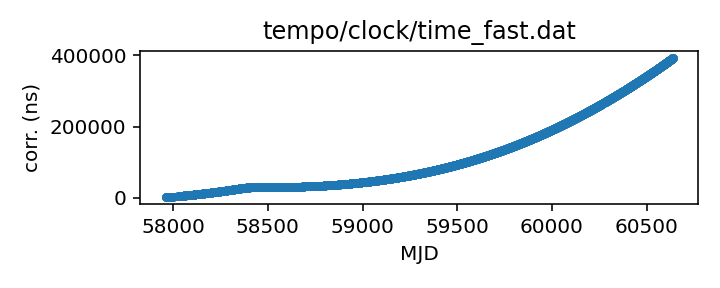
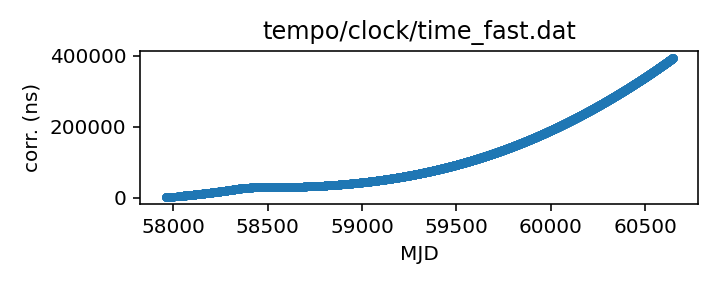
Routine gh-pages update from Github action Wed Dec  4 20:42:10 UTC 2024

Changed region(s): [[0.5806, 0.75, 0.825, 0.8125], [0.8556, 0.75, 0.9472, 0.8125]]

diff --git a/status.md b/status.md
@@ -13,18 +13,18 @@ name of each clock file links to a page with more details.
 
 | Name | File | Corrections start | Corrections end | Last check date | Last check result 
 |:--- |:--- | --- | --- | --- |:--- 
-| [GPS to UTC](T2runtime/clock/gps2utc.clk.html) | `T2runtime/clock/gps2utc.clk` | 1993-01-01 MJD 48988.0 | 2024-10-31 MJD 60614.0 | 2024-12-03 | Unchanged 
-| [GPS to UTC (Combined Clock)](T2runtime/clock/gps2utc_cc.clk.html) | `T2runtime/clock/gps2utc_cc.clk` | 1993-01-01 MJD 48988.0 | 2024-10-31 MJD 60614.0 | 2024-12-03 | Unchanged 
-| [GPS to UTC (Corrected)](T2runtime/clock/gps2utc_c0p.clk.html) | `T2runtime/clock/gps2utc_c0p.clk` | 2010-12-29 MJD 55559.0 | 2024-10-31 MJD 60614.0 | 2024-12-03 | Unchanged 
-| [GBT](tempo/clock/time_gbt.dat.html) | `tempo/clock/time_gbt.dat` | 2000-12-31 MJD 51909.5 | 2024-05-18 MJD 60448.5 | 2024-12-03 | **Validation failed** 
+| [GPS to UTC](T2runtime/clock/gps2utc.clk.html) | `T2runtime/clock/gps2utc.clk` | 1993-01-01 MJD 48988.0 | 2024-10-31 MJD 60614.0 | 2024-12-04 | Unchanged 
+| [GPS to UTC (Combined Clock)](T2runtime/clock/gps2utc_cc.clk.html) | `T2runtime/clock/gps2utc_cc.clk` | 1993-01-01 MJD 48988.0 | 2024-10-31 MJD 60614.0 | 2024-12-04 | Unchanged 
+| [GPS to UTC (Corrected)](T2runtime/clock/gps2utc_c0p.clk.html) | `T2runtime/clock/gps2utc_c0p.clk` | 2010-12-29 MJD 55559.0 | 2024-10-31 MJD 60614.0 | 2024-12-04 | Unchanged 
+| [GBT](tempo/clock/time_gbt.dat.html) | `tempo/clock/time_gbt.dat` | 2000-12-31 MJD 51909.5 | 2024-05-18 MJD 60448.5 | 2024-12-04 | **Validation failed** 
 | [GBT (TEMPO2 converted from TEMPO)](T2runtime/clock/gbt2gps.clk.html) | `T2runtime/clock/gbt2gps.clk` | 2000-12-31 MJD 51909.5 | 2024-05-18 MJD 60448.5 | 2024-05-19 | Updated 
-| [Jodrell Bank](T2runtime/clock/jb2gps.clk.html) | `T2runtime/clock/jb2gps.clk` | 2006-10-13 MJD 54021.4 | 2024-11-07 MJD 60621.0 | 2024-11-27 | Updated 
-| [Jodrell Bank Roach](T2runtime/clock/jbroach2jb.clk.html) | `T2runtime/clock/jbroach2jb.clk` | 2006-10-13 MJD 54021.4 | 2018-03-20 MJD 58197.6 | 2024-11-27 | Unchanged 
-| [Jodrell Bank DFB](T2runtime/clock/jbdfb2jb.clk.html) | `T2runtime/clock/jbdfb2jb.clk` | 2006-10-13 MJD 54021.4 | 2017-05-11 MJD 57884.0 | 2024-11-27 | Unchanged 
-| [Meerkat (observatory)](T2runtime/clock/mk2utc_observatory.clk.html) | `T2runtime/clock/mk2utc_observatory.clk` | 2019-01-01 MJD 58484.0 | 2024-04-24 MJD 60425.0 | 2024-11-27 | **Failed to download** 
-| [Leap seconds](tempo/clock/leap.sec.html) | `tempo/clock/leap.sec` | 1972-07-01 MJD 41499.0 | 2017-01-01 MJD 57754.0 | 2024-12-03 | Unchanged 
-| [UT1 table](tempo/clock/ut1.dat.html) | `tempo/clock/ut1.dat` | 1973-01-02 MJD 41684.0 | 2025-12-06 MJD 61015.0 | 2024-12-03 | Unchanged 
-| [UT1 table](T2runtime/clock/ut1.dat.html) | `T2runtime/clock/ut1.dat` | 1973-01-02 MJD 41684.0 | 2025-12-06 MJD 61015.0 | 2024-12-03 | Unchanged 
+| [Jodrell Bank](T2runtime/clock/jb2gps.clk.html) | `T2runtime/clock/jb2gps.clk` | 2006-10-13 MJD 54021.4 | 2024-11-07 MJD 60621.0 | 2024-12-04 | Unchanged 
+| [Jodrell Bank Roach](T2runtime/clock/jbroach2jb.clk.html) | `T2runtime/clock/jbroach2jb.clk` | 2006-10-13 MJD 54021.4 | 2018-03-20 MJD 58197.6 | 2024-12-04 | Unchanged 
+| [Jodrell Bank DFB](T2runtime/clock/jbdfb2jb.clk.html) | `T2runtime/clock/jbdfb2jb.clk` | 2006-10-13 MJD 54021.4 | 2017-05-11 MJD 57884.0 | 2024-12-04 | Unchanged 
+| [Meerkat (observatory)](T2runtime/clock/mk2utc_observatory.clk.html) | `T2runtime/clock/mk2utc_observatory.clk` | 2019-01-01 MJD 58484.0 | 2024-04-24 MJD 60425.0 | 2024-12-04 | **Failed to download** 
+| [Leap seconds](tempo/clock/leap.sec.html) | `tempo/clock/leap.sec` | 1972-07-01 MJD 41499.0 | 2017-01-01 MJD 57754.0 | 2024-12-04 | Unchanged 
+| [UT1 table](tempo/clock/ut1.dat.html) | `tempo/clock/ut1.dat` | 1973-01-02 MJD 41684.0 | 2025-12-06 MJD 61015.0 | 2024-12-04 | Unchanged 
+| [UT1 table](T2runtime/clock/ut1.dat.html) | `T2runtime/clock/ut1.dat` | 1973-01-02 MJD 41684.0 | 2025-12-06 MJD 61015.0 | 2024-12-04 | Unchanged 
 
 
 
@@ -67,26 +67,26 @@ name of each clock file links to a page with more details.
 
 | Name | File | Corrections start | Corrections end | Last check date | Last check result 
 |:--- |:--- | --- | --- | --- |:--- 
-| [GPS to UTC (TEMPO2)](T2runtime/clock/gps2utc_tempo2.clk.html) | `T2runtime/clock/gps2utc_tempo2.clk` | 1996-03-27 MJD 50169.0 | 2022-10-27 MJD 59879.0 | 2024-11-27 | **Failed to download** 
-| [GBT (TEMPO2)](T2runtime/clock/gbt2gps_tempo2.clk.html) | `T2runtime/clock/gbt2gps_tempo2.clk` | 2000-12-31 MJD 51909.5 | 2020-02-25 MJD 58904.5 | 2024-11-27 | Unchanged 
-| [Jodrell Bank (TEMPO)](tempo/clock/time_jb.dat.html) | `tempo/clock/time_jb.dat` | 2006-10-13 MJD 54021.4 | 2019-05-13 MJD 58616.2 | 2024-11-27 | Unchanged 
-| [VLA](tempo/clock/time_vla.dat.html) | `tempo/clock/time_vla.dat` | 1990-10-27 MJD 48191.2 | 2021-03-07 MJD 59280.5 | 2024-11-27 | Unchanged 
-| [VLA (TEMPO2)](T2runtime/clock/vla2gps.clk.html) | `T2runtime/clock/vla2gps.clk` | 2015-02-01 MJD 57054.6 | 2021-03-07 MJD 59280.5 | 2024-11-27 | Unchanged 
-| [VLA to NIST](T2runtime/clock/vla2nist.clk.html) | `T2runtime/clock/vla2nist.clk` | 1990-10-27 MJD 48191.2 | 1993-11-13 MJD 49304.0 | 2024-11-27 | Unchanged 
-| [FAST](tempo/clock/time_fast.dat.html) | `tempo/clock/time_fast.dat` | 2017-07-27 MJD 57961.0 | 2024-11-25 MJD 60640.0 | 2024-11-27 | Updated 
-| [WSRT](T2runtime/clock/wsrt2gps.clk.html) | `T2runtime/clock/wsrt2gps.clk` | 1999-01-01 MJD 51179.5 | 2015-06-29 MJD 57202.1 | 2024-11-27 | Unchanged 
-| [WSRT (TEMPO)](tempo/clock/time_wsrt.dat.html) | `tempo/clock/time_wsrt.dat` | 1987-07-24 MJD 47000.0 | 2007-12-24 MJD 54458.0 | 2024-11-27 | **Validation failed** 
-| [Parkes](T2runtime/clock/pks2gps.clk.html) | `T2runtime/clock/pks2gps.clk` | 1858-11-17 MJD 0.0 | 2024-10-31 MJD 60614.1 | 2024-11-27 | Updated 
-| [Parkes (TEMPO)](tempo/clock/time_pks.dat.html) | `tempo/clock/time_pks.dat` | 1979-05-07 MJD 44000.0 | 2011-07-03 MJD 55745.8 | 2024-11-27 | **Validation failed** 
-| [SRT](T2runtime/clock/srt2gps.clk.html) | `T2runtime/clock/srt2gps.clk` | 2013-03-20 MJD 56371.0 | 2019-12-11 MJD 58828.0 | 2024-11-27 | Unchanged 
-| [Effelsberg](T2runtime/clock/eff2gps.clk.html) | `T2runtime/clock/eff2gps.clk` | 1993-11-29 MJD 49320.0 | 2015-06-22 MJD 57195.5 | 2024-11-27 | Unchanged 
-| [Effelsberg Asterix/PSRix](T2runtime/clock/effix2gps.clk.html) | `T2runtime/clock/effix2gps.clk` | 2011-01-01 MJD 55562.5 | 2021-03-21 MJD 59294.5 | 2024-11-27 | Unchanged 
-| [LEAP](T2runtime/clock/leap2effix.clk.html) | `T2runtime/clock/leap2effix.clk` | 2012-10-29 MJD 56230.0 | 2014-03-04 MJD 56720.0 | 2024-11-27 | Unchanged 
-| [NUPPI](tempo/clock/time_nuppi.dat.html) | `tempo/clock/time_nuppi.dat` | 2005-03-07 MJD 53436.0 | 2015-11-08 MJD 57334.6 | 2024-11-27 | Unchanged 
-| [Meerkat (TEMPO2)](T2runtime/clock/mk2utc.clk.html) | `T2runtime/clock/mk2utc.clk` | 2019-01-01 MJD 58484.0 | 2024-09-23 MJD 60576.9 | 2024-11-27 | Updated 
-| [MOST](T2runtime/clock/mo2gps.clk.html) | `T2runtime/clock/mo2gps.clk` | 2003-12-27 MJD 53000.0 | 2018-09-06 MJD 58367.0 | 2024-11-27 | Unchanged 
-| [Nancay to obspm](T2runtime/clock/ncyobs2obspm.clk.html) | `T2runtime/clock/ncyobs2obspm.clk` | 1988-05-18 MJD 47299.6 | 2023-10-27 MJD 60244.0 | 2024-11-27 | Unchanged 
-| [obspm](T2runtime/clock/obspm2gps.clk.html) | `T2runtime/clock/obspm2gps.clk` | 2003-12-01 MJD 52974.0 | 2023-10-27 MJD 60244.0 | 2024-11-27 | Unchanged 
+| [GPS to UTC (TEMPO2)](T2runtime/clock/gps2utc_tempo2.clk.html) | `T2runtime/clock/gps2utc_tempo2.clk` | 1996-03-27 MJD 50169.0 | 2022-10-27 MJD 59879.0 | 2024-12-04 | **Failed to download** 
+| [GBT (TEMPO2)](T2runtime/clock/gbt2gps_tempo2.clk.html) | `T2runtime/clock/gbt2gps_tempo2.clk` | 2000-12-31 MJD 51909.5 | 2020-02-25 MJD 58904.5 | 2024-12-04 | Unchanged 
+| [Jodrell Bank (TEMPO)](tempo/clock/time_jb.dat.html) | `tempo/clock/time_jb.dat` | 2006-10-13 MJD 54021.4 | 2019-05-13 MJD 58616.2 | 2024-12-04 | Unchanged 
+| [VLA](tempo/clock/time_vla.dat.html) | `tempo/clock/time_vla.dat` | 1990-10-27 MJD 48191.2 | 2021-03-07 MJD 59280.5 | 2024-12-04 | Unchanged 
+| [VLA (TEMPO2)](T2runtime/clock/vla2gps.clk.html) | `T2runtime/clock/vla2gps.clk` | 2015-02-01 MJD 57054.6 | 2021-03-07 MJD 59280.5 | 2024-12-04 | Unchanged 
+| [VLA to NIST](T2runtime/clock/vla2nist.clk.html) | `T2runtime/clock/vla2nist.clk` | 1990-10-27 MJD 48191.2 | 1993-11-13 MJD 49304.0 | 2024-12-04 | Unchanged 
+| [FAST](tempo/clock/time_fast.dat.html) | `tempo/clock/time_fast.dat` | 2017-07-27 MJD 57961.0 | 2024-12-02 MJD 60647.0 | 2024-12-04 | Updated 
+| [WSRT](T2runtime/clock/wsrt2gps.clk.html) | `T2runtime/clock/wsrt2gps.clk` | 1999-01-01 MJD 51179.5 | 2015-06-29 MJD 57202.1 | 2024-12-04 | Unchanged 
+| [WSRT (TEMPO)](tempo/clock/time_wsrt.dat.html) | `tempo/clock/time_wsrt.dat` | 1987-07-24 MJD 47000.0 | 2007-12-24 MJD 54458.0 | 2024-12-04 | **Validation failed** 
+| [Parkes](T2runtime/clock/pks2gps.clk.html) | `T2runtime/clock/pks2gps.clk` | 1858-11-17 MJD 0.0 | 2024-10-31 MJD 60614.1 | 2024-12-04 | Unchanged 
+| [Parkes (TEMPO)](tempo/clock/time_pks.dat.html) | `tempo/clock/time_pks.dat` | 1979-05-07 MJD 44000.0 | 2011-07-03 MJD 55745.8 | 2024-12-04 | **Validation failed** 
+| [SRT](T2runtime/clock/srt2gps.clk.html) | `T2runtime/clock/srt2gps.clk` | 2013-03-20 MJD 56371.0 | 2019-12-11 MJD 58828.0 | 2024-12-04 | Unchanged 
+| [Effelsberg](T2runtime/clock/eff2gps.clk.html) | `T2runtime/clock/eff2gps.clk` | 1993-11-29 MJD 49320.0 | 2015-06-22 MJD 57195.5 | 2024-12-04 | Unchanged 
+| [Effelsberg Asterix/PSRix](T2runtime/clock/effix2gps.clk.html) | `T2runtime/clock/effix2gps.clk` | 2011-01-01 MJD 55562.5 | 2021-03-21 MJD 59294.5 | 2024-12-04 | Unchanged 
+| [LEAP](T2runtime/clock/leap2effix.clk.html) | `T2runtime/clock/leap2effix.clk` | 2012-10-29 MJD 56230.0 | 2014-03-04 MJD 56720.0 | 2024-12-04 | Unchanged 
+| [NUPPI](tempo/clock/time_nuppi.dat.html) | `tempo/clock/time_nuppi.dat` | 2005-03-07 MJD 53436.0 | 2015-11-08 MJD 57334.6 | 2024-12-04 | Unchanged 
+| [Meerkat (TEMPO2)](T2runtime/clock/mk2utc.clk.html) | `T2runtime/clock/mk2utc.clk` | 2019-01-01 MJD 58484.0 | 2024-09-23 MJD 60576.9 | 2024-12-04 | Unchanged 
+| [MOST](T2runtime/clock/mo2gps.clk.html) | `T2runtime/clock/mo2gps.clk` | 2003-12-27 MJD 53000.0 | 2018-09-06 MJD 58367.0 | 2024-12-04 | Unchanged 
+| [Nancay to obspm](T2runtime/clock/ncyobs2obspm.clk.html) | `T2runtime/clock/ncyobs2obspm.clk` | 1988-05-18 MJD 47299.6 | 2023-10-27 MJD 60244.0 | 2024-12-04 | Unchanged 
+| [obspm](T2runtime/clock/obspm2gps.clk.html) | `T2runtime/clock/obspm2gps.clk` | 2003-12-01 MJD 52974.0 | 2023-10-27 MJD 60244.0 | 2024-12-04 | Unchanged 
 
 
 ### Further information:

diff --git a/tempo/clock/time_pks.dat.md b/tempo/clock/time_pks.dat.md
@@ -20,12 +20,11 @@ telescopes in the same file, distinguished only by observatory code.
 | Clock file start | 1979-05-07 MJD 44000.0 |
 | Clock file end | 2011-07-03 MJD 55745.8 |
 | Update interval (days) | 7 |
-| Last update attempt | 2024-11-27 |
+| Last update attempt | 2024-12-04 |
 | Last update result | Validation failed |
 
 Log entries from the last few update attempts:
 ```
-2024-08-16 20:31:04.370 - Validation failed: Unable to read new version of tempo/clock/time_pks.dat: Clock file /tmp/astropy-download-1819-bg24jb3b appears to be out of order: 49959.0 > 49958.0
 2024-08-23 20:30:59.058 - Validation failed: Unable to read new version of tempo/clock/time_pks.dat: Clock file /tmp/astropy-download-1777-zxlnpoxz appears to be out of order: 49959.0 > 49958.0
 2024-08-30 20:32:33.550 - Validation failed: Unable to read new version of tempo/clock/time_pks.dat: Clock file /tmp/astropy-download-1806-7nmpd07j appears to be out of order: 49959.0 > 49958.0
 2024-09-06 20:31:32.232 - Validation failed: Unable to read new version of tempo/clock/time_pks.dat: Clock file /tmp/astropy-download-1810-y5xp7me4 appears to be out of order: 49959.0 > 49958.0
@@ -35,6 +34,7 @@ Log entries from the last few update attempts:
 2024-10-04 20:33:16.722 - Validation failed: Unable to read new version of tempo/clock/time_pks.dat: Clock file /tmp/astropy-download-1844-zxupk919 appears to be out of order: 49959.0 > 49958.0
 2024-10-11 20:39:11.255 - Validation failed: Unable to read new version of tempo/clock/time_pks.dat: Clock file /tmp/astropy-download-2062-ylxvq7_t appears to be out of order: 49959.0 > 49958.0
 2024-11-27 20:39:55.006 - Validation failed: Unable to read new version of tempo/clock/time_pks.dat: Clock file /tmp/astropy-download-2172-0awx7c85 appears to be out of order: 49959.0 > 49958.0
+2024-12-04 20:40:28.450 - Validation failed: Unable to read new version of tempo/clock/time_pks.dat: Clock file /tmp/astropy-download-2139-qynhkydv appears to be out of order: 49959.0 > 49958.0
 ```
 [Full log](https://raw.githubusercontent.com/ipta/pulsar-clock-corrections/main/log/tempo/clock/time_pks.dat.log)
 

diff --git a/tempo/clock/time_wsrt.dat.md b/tempo/clock/time_wsrt.dat.md
@@ -20,12 +20,11 @@ should be the same information.
 | Clock file start | 1987-07-24 MJD 47000.0 |
 | Clock file end | 2007-12-24 MJD 54458.0 |
 | Update interval (days) | 7 |
-| Last update attempt | 2024-11-27 |
+| Last update attempt | 2024-12-04 |
 | Last update result | Validation failed |
 
 Log entries from the last few update attempts:
 ```
-2024-08-16 20:30:59.758 - Validation failed: Unable to read new version of tempo/clock/time_wsrt.dat: Clock file /tmp/astropy-download-1819-rydxnzal appears to be out of order: 53000.05 > 53000.0
 2024-08-23 20:30:54.095 - Validation failed: Unable to read new version of tempo/clock/time_wsrt.dat: Clock file /tmp/astropy-download-1777-02v_ey55 appears to be out of order: 53000.05 > 53000.0
 2024-08-30 20:32:28.816 - Validation failed: Unable to read new version of tempo/clock/time_wsrt.dat: Clock file /tmp/astropy-download-1806-v9_cze2w appears to be out of order: 53000.05 > 53000.0
 2024-09-06 20:31:25.517 - Validation failed: Unable to read new version of tempo/clock/time_wsrt.dat: Clock file /tmp/astropy-download-1810-r1trxeay appears to be out of order: 53000.05 > 53000.0
@@ -35,6 +34,7 @@ Log entries from the last few update attempts:
 2024-10-04 20:33:11.870 - Validation failed: Unable to read new version of tempo/clock/time_wsrt.dat: Clock file /tmp/astropy-download-1844-0osy84qv appears to be out of order: 53000.05 > 53000.0
 2024-10-11 20:39:06.536 - Validation failed: Unable to read new version of tempo/clock/time_wsrt.dat: Clock file /tmp/astropy-download-2062-gcmj1d9q appears to be out of order: 53000.05 > 53000.0
 2024-11-27 20:39:50.095 - Validation failed: Unable to read new version of tempo/clock/time_wsrt.dat: Clock file /tmp/astropy-download-2172-cdd9mcj0 appears to be out of order: 53000.05 > 53000.0
+2024-12-04 20:40:23.375 - Validation failed: Unable to read new version of tempo/clock/time_wsrt.dat: Clock file /tmp/astropy-download-2139-0s_r4fkf appears to be out of order: 53000.05 > 53000.0
 ```
 [Full log](https://raw.githubusercontent.com/ipta/pulsar-clock-corrections/main/log/tempo/clock/time_wsrt.dat.log)
 

diff --git a/tempo/clock/time_gbt.dat.md b/tempo/clock/time_gbt.dat.md
@@ -33,12 +33,11 @@ If questions arise, contact Ryan S. Lynch <rlynch@nrao.edu>.
 | Clock file start | 2000-12-31 MJD 51909.5 |
 | Clock file end | 2024-05-18 MJD 60448.5 |
 | Update interval (days) | 1 |
-| Last update attempt | 2024-12-03 |
+| Last update attempt | 2024-12-04 |
 | Last update result | Validation failed |
 
 Log entries from the last few update attempts:
 ```
-2024-10-11 20:39:02.908 - Validation failed: New version of tempo/clock/time_gbt.dat clock corrections differ from old version where they overlap in 11 places
 2024-10-12 20:31:30.574 - Validation failed: New version of tempo/clock/time_gbt.dat clock corrections differ from old version where they overlap in 11 places
 2024-10-16 20:33:59.130 - Validation failed: New version of tempo/clock/time_gbt.dat clock corrections differ from old version where they overlap in 11 places
 2024-11-27 20:39:46.554 - Validation failed: New version of tempo/clock/time_gbt.dat clock corrections differ from old version where they overlap in 11 places
@@ -48,6 +47,7 @@ Log entries from the last few update attempts:
 2024-12-01 20:37:59.855 - Validation failed: New version of tempo/clock/time_gbt.dat clock corrections differ from old version where they overlap in 11 places
 2024-12-02 20:39:00.668 - Validation failed: New version of tempo/clock/time_gbt.dat clock corrections differ from old version where they overlap in 11 places
 2024-12-03 20:39:59.982 - Validation failed: New version of tempo/clock/time_gbt.dat clock corrections differ from old version where they overlap in 11 places
+2024-12-04 20:40:18.746 - Validation failed: New version of tempo/clock/time_gbt.dat clock corrections differ from old version where they overlap in 11 places
 ```
 [Full log](https://raw.githubusercontent.com/ipta/pulsar-clock-corrections/main/log/tempo/clock/time_gbt.dat.log)
 

diff --git a/T2runtime/clock/mk2utc_observatory.clk.md b/T2runtime/clock/mk2utc_observatory.clk.md
@@ -21,12 +21,11 @@ If questions arise, contact Ryan Shannon <rshannon@swin.edu.au>
 | Clock file start | 2019-01-01 MJD 58484.0 |
 | Clock file end | 2024-04-24 MJD 60425.0 |
 | Update interval (days) | 7 |
-| Last update attempt | 2024-11-27 |
+| Last update attempt | 2024-12-04 |
 | Last update result | Failed to download |
 
 Log entries from the last few update attempts:
 ```
-2024-08-16 20:31:06.018 - Failed to download: HTTP Error 403: Forbidden
 2024-08-23 20:31:02.824 - Failed to download: HTTP Error 502: Proxy Error
 2024-08-30 20:32:35.880 - Failed to download: HTTP Error 403: Forbidden
 2024-09-06 20:31:43.821 - Failed to download: The read operation timed out
@@ -36,6 +35,7 @@ Log entries from the last few update attempts:
 2024-10-04 20:33:22.425 - Failed to download: HTTP Error 403: Forbidden
 2024-10-11 20:39:13.519 - Failed to download: HTTP Error 403: Forbidden
 2024-11-27 20:39:59.127 - Failed to download: HTTP Error 403: Forbidden
+2024-12-04 20:40:30.649 - Failed to download: HTTP Error 403: Forbidden
 ```
 [Full log](https://raw.githubusercontent.com/ipta/pulsar-clock-corrections/main/log/T2runtime/clock/mk2utc_observatory.clk.log)
 

diff --git a/T2runtime/clock/gps2utc_tempo2.clk.md b/T2runtime/clock/gps2utc_tempo2.clk.md
@@ -27,12 +27,11 @@ are from the column C0').
 | Clock file start | 1996-03-27 MJD 50169.0 |
 | Clock file end | 2022-10-27 MJD 59879.0 |
 | Update interval (days) | 7 |
-| Last update attempt | 2024-11-27 |
+| Last update attempt | 2024-12-04 |
 | Last update result | Failed to download |
 
 Log entries from the last few update attempts:
 ```
-2024-08-16 20:30:32.528 - Failed to download: HTTP Error 404: Not Found
 2024-08-23 20:30:26.601 - Failed to download: HTTP Error 404: Not Found
 2024-08-30 20:32:01.718 - Failed to download: HTTP Error 404: Not Found
 2024-09-06 20:30:57.247 - Failed to download: HTTP Error 404: Not Found
@@ -42,6 +41,7 @@ Log entries from the last few update attempts:
 2024-10-04 20:32:41.616 - Failed to download: HTTP Error 404: Not Found
 2024-10-11 20:38:36.240 - Failed to download: HTTP Error 404: Not Found
 2024-11-27 20:36:13.070 - Failed to download: HTTP Error 404: Not Found
+2024-12-04 20:36:44.750 - Failed to download: HTTP Error 404: Not Found
 ```
 [Full log](https://raw.githubusercontent.com/ipta/pulsar-clock-corrections/main/log/T2runtime/clock/gps2utc_tempo2.clk.log)
 

diff --git a/tempo/clock/time_fast.dat.md b/tempo/clock/time_fast.dat.md
@@ -14,14 +14,13 @@ This file is pulled from the FAST_ClockFile repository.
 | Format | tempo |
 | Bogus last correction | False |
 | Clock file start | 2017-07-27 MJD 57961.0 |
-| Clock file end | 2024-11-25 MJD 60640.0 |
+| Clock file end | 2024-12-02 MJD 60647.0 |
 | Update interval (days) | 7 |
-| Last update attempt | 2024-11-27 |
+| Last update attempt | 2024-12-04 |
 | Last update result | Updated |
 
 Log entries from the last few update attempts:
 ```
-2024-08-16 20:30:59.399 - Updated
 2024-08-23 20:30:53.681 - Updated
 2024-08-30 20:32:28.415 - Updated
 2024-09-06 20:31:25.133 - Updated
@@ -31,6 +30,7 @@ Log entries from the last few update attempts:
 2024-10-04 20:33:11.391 - Updated
 2024-10-11 20:39:06.020 - Updated
 2024-11-27 20:39:49.767 - Updated
+2024-12-04 20:40:22.909 - Updated
 ```
 [Full log](https://raw.githubusercontent.com/ipta/pulsar-clock-corrections/main/log/tempo/clock/time_fast.dat.log)
 

diff --git a/T2runtime/clock/jb2gps.clk.md b/T2runtime/clock/jb2gps.clk.md
@@ -24,12 +24,11 @@ If questions arise, contact Michael Keith
 | Clock file start | 2006-10-13 MJD 54021.4 |
 | Clock file end | 2024-11-07 MJD 60621.0 |
 | Update interval (days) | 7 |
-| Last update attempt | 2024-11-27 |
-| Last update result | Updated |
+| Last update attempt | 2024-12-04 |
+| Last update result | Unchanged |
 
 Log entries from the last few update attempts:
 ```
-2024-08-16 20:30:58.226 - Unchanged
 2024-08-23 20:30:52.095 - Unchanged
 2024-08-30 20:32:27.334 - Unchanged
 2024-09-06 20:31:23.955 - Unchanged
@@ -39,6 +38,7 @@ Log entries from the last few update attempts:
 2024-10-04 20:33:09.808 - Unchanged
 2024-10-11 20:39:04.595 - Unchanged
 2024-11-27 20:39:48.654 - Updated
+2024-12-04 20:40:20.367 - Unchanged
 ```
 [Full log](https://raw.githubusercontent.com/ipta/pulsar-clock-corrections/main/log/T2runtime/clock/jb2gps.clk.log)
 

diff --git a/T2runtime/clock/gps2utc_c0p.clk.md b/T2runtime/clock/gps2utc_c0p.clk.md
@@ -30,12 +30,11 @@ about the BIPM's published corrections, contact <tai@bipm.org>.
 | Clock file start | 2010-12-29 MJD 55559.0 |
 | Clock file end | 2024-10-31 MJD 60614.0 |
 | Update interval (days) | 1 |
-| Last update attempt | 2024-12-03 |
+| Last update attempt | 2024-12-04 |
 | Last update result | Unchanged |
 
 Log entries from the last few update attempts:
 ```
-2024-10-11 20:39:02.464 - Unchanged
 2024-10-12 20:31:30.240 - Unchanged
 2024-10-16 20:33:58.697 - Unchanged
 2024-11-27 20:39:46.086 - Unchanged
@@ -45,6 +44,7 @@ Log entries from the last few update attempts:
 2024-12-01 20:37:58.949 - Unchanged
 2024-12-02 20:39:00.376 - Unchanged
 2024-12-03 20:39:59.467 - Unchanged
+2024-12-04 20:40:18.365 - Unchanged
 ```
 [Full log](https://raw.githubusercontent.com/ipta/pulsar-clock-corrections/main/log/T2runtime/clock/gps2utc_c0p.clk.log)
 

diff --git a/T2runtime/clock/gps2utc_cc.clk.md b/T2runtime/clock/gps2utc_cc.clk.md
@@ -29,12 +29,11 @@ about the BIPM's published corrections, contact <tai@bipm.org>.
 | Clock file start | 1993-01-01 MJD 48988.0 |
 | Clock file end | 2024-10-31 MJD 60614.0 |
 | Update interval (days) | 1 |
-| Last update attempt | 2024-12-03 |
+| Last update attempt | 2024-12-04 |
 | Last update result | Unchanged |
 
 Log entries from the last few update attempts:
 ```
-2024-10-11 20:39:02.452 - Unchanged
 2024-10-12 20:31:30.229 - Unchanged
 2024-10-16 20:33:58.686 - Unchanged
 2024-11-27 20:39:46.075 - Unchanged
@@ -44,6 +43,7 @@ Log entries from the last few update attempts:
 2024-12-01 20:37:58.941 - Unchanged
 2024-12-02 20:39:00.368 - Unchanged
 2024-12-03 20:39:59.459 - Unchanged
+2024-12-04 20:40:18.357 - Unchanged
 ```
 [Full log](https://raw.githubusercontent.com/ipta/pulsar-clock-corrections/main/log/T2runtime/clock/gps2utc_cc.clk.log)
 

diff --git a/T2runtime/clock/gps2utc.clk.md b/T2runtime/clock/gps2utc.clk.md
@@ -32,12 +32,11 @@ about the BIPM's published corrections, contact <tai@bipm.org>.
 | Clock file start | 1993-01-01 MJD 48988.0 |
 | Clock file end | 2024-10-31 MJD 60614.0 |
 | Update interval (days) | 1 |
-| Last update attempt | 2024-12-03 |
+| Last update attempt | 2024-12-04 |
 | Last update result | Unchanged |
 
 Log entries from the last few update attempts:
 ```
-2024-10-11 20:39:02.423 - Unchanged
 2024-10-12 20:31:30.202 - Unchanged
 2024-10-16 20:33:58.656 - Unchanged
 2024-11-27 20:39:46.050 - Unchanged
@@ -47,6 +46,7 @@ Log entries from the last few update attempts:
 2024-12-01 20:37:58.919 - Unchanged
 2024-12-02 20:39:00.346 - Unchanged
 2024-12-03 20:39:59.437 - Unchanged
+2024-12-04 20:40:18.335 - Unchanged
 ```
 [Full log](https://raw.githubusercontent.com/ipta/pulsar-clock-corrections/main/log/T2runtime/clock/gps2utc.clk.log)
 

diff --git a/T2runtime/clock/ncyobs2obspm.clk.md b/T2runtime/clock/ncyobs2obspm.clk.md
@@ -22,12 +22,11 @@ thus here) can be expected to be somewhat up to date.
 | Clock file start | 1988-05-18 MJD 47299.6 |
 | Clock file end | 2023-10-27 MJD 60244.0 |
 | Update interval (days) | 7 |
-| Last update attempt | 2024-11-27 |
+| Last update attempt | 2024-12-04 |
 | Last update result | Unchanged |
 
 Log entries from the last few update attempts:
 ```
-2024-08-16 20:31:06.808 - Unchanged
 2024-08-23 20:31:03.637 - Unchanged
 2024-08-30 20:32:36.681 - Unchanged
 2024-09-06 20:31:44.610 - Unchanged
@@ -37,6 +36,7 @@ Log entries from the last few update attempts:
 2024-10-04 20:33:23.482 - Unchanged
 2024-10-11 20:39:14.655 - Unchanged
 2024-11-27 20:40:00.686 - Unchanged
+2024-12-04 20:40:31.702 - Unchanged
 ```
 [Full log](https://raw.githubusercontent.com/ipta/pulsar-clock-corrections/main/log/T2runtime/clock/ncyobs2obspm.clk.log)
 
